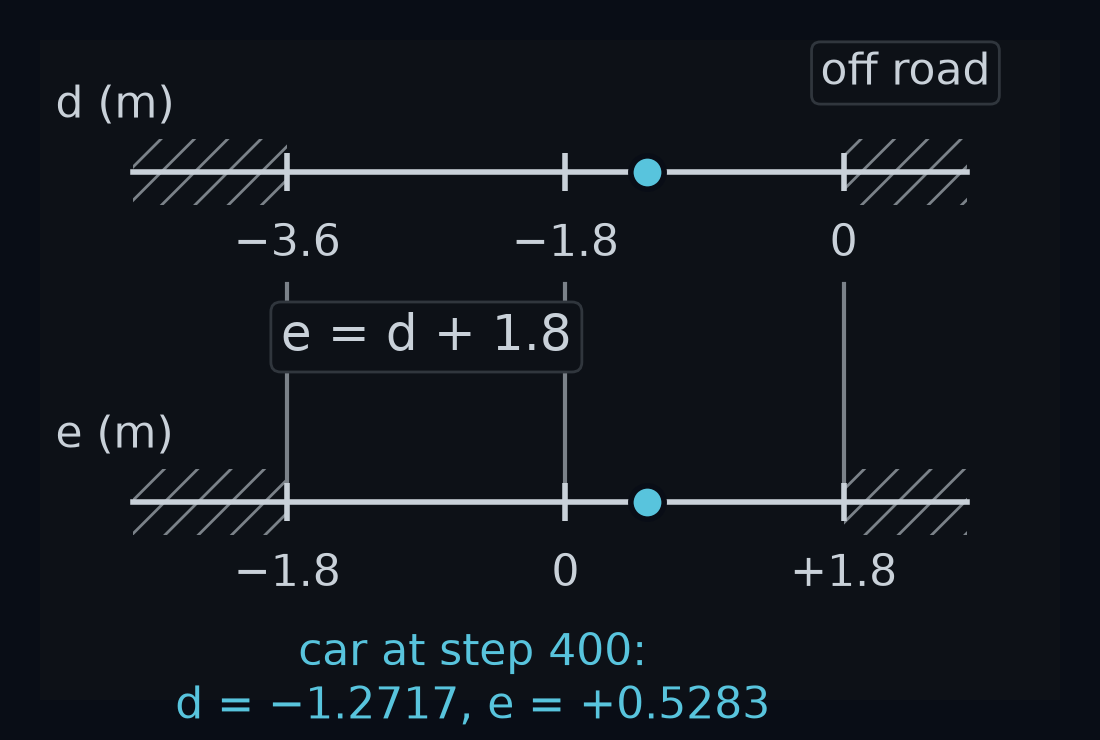
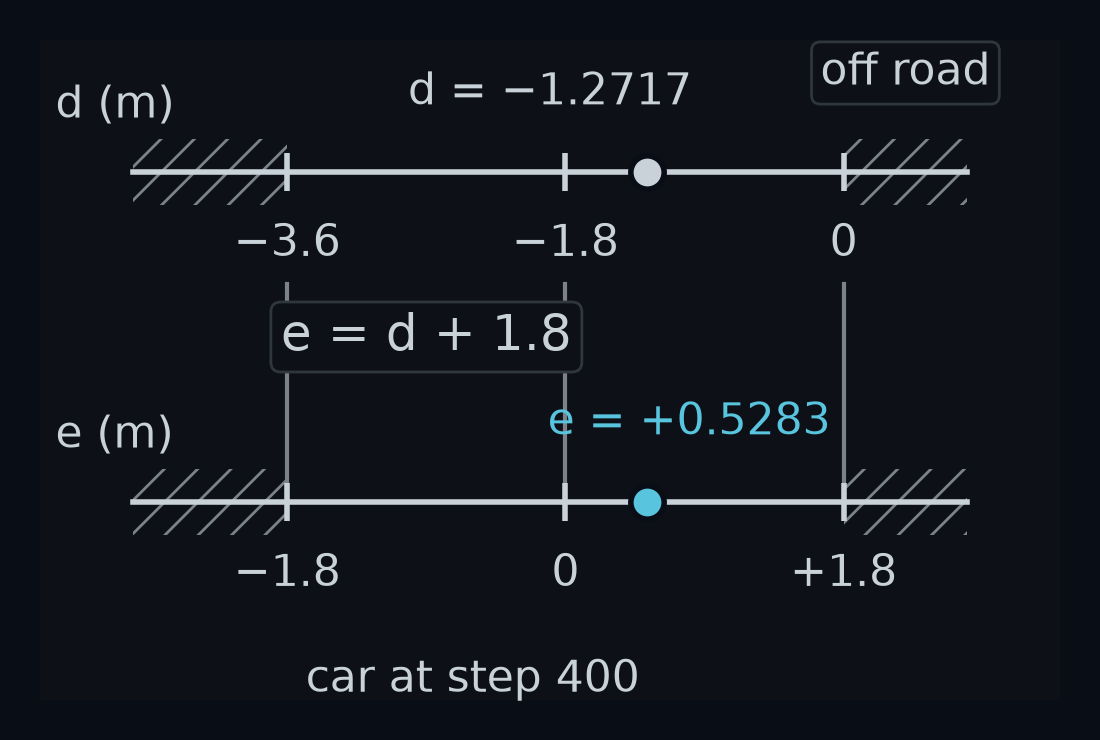
fix(1.1): ruling 10b - a symbol has one colour across the text and the figures
Gate G9 (test_figure_colours.py) reads the colour of every rendered label: a label
naming d, e, psi, delta or theta may not wear another symbol's quantity colour (d is
untinted, so any tint is wrong for it). It ran over every unit and found d in e's blue
in four 1.1.3 figures and "theta + delta (wheel)" in delta's colour in 1.1.1.

1.1.3 d_sideways, arc_length_l, step400_foot and e_from_d now draw d in neutral ink
(e_from_d keeps the e dot blue and splits its mixed label); 1.1.1 move_point_diagram
label is neutral. Alt texts updated; labs and bundle rebuilt.

diff --git a/tests/zero2fsd/test_figure_colours.py b/tests/zero2fsd/test_figure_colours.py
@@ -2,6 +2,7 @@
 """Gate G2: no figures.py (nor scripts/figstyle.py) holds a string colour literal; colours come from zero2fsd.palette.
 Gate G3: every quantity hue, and every shade of it, reads on the dark figure background (WCAG contrast >= 3:1).
 Gate G7: no figure plots data outside its axes (an axes that is a deliberate zoom carries the gid "zoom-inset").
+Gate G9 (ruling 10b): a symbol has one colour across the text and the figures; a figure label naming a symbol never wears another symbol's colour.
 
 What counts as a colour literal is derived from matplotlib itself, never from a list of names: the kwarg aliases of
 every Artist property whose name contains "color", any kwarg or dict key containing "color"/"colour", any "#hex"
@@ -14,6 +15,8 @@ from pathlib import Path
 
 import numpy as np
 import pytest
+from matplotlib.colors import to_hex
+from matplotlib.text import Text
 from matplotlib.figure import Figure
 from matplotlib.artist import Artist, ArtistInspector
 from matplotlib.axes._base import _process_plot_format
@@ -348,3 +351,60 @@ def test_render_pool_workers_exit_after_their_parent_is_killed(monkeypatch):
         for pid in workers:
             if alive(pid):
                 os.kill(pid, signal.SIGKILL)
+
+
+# --- G9: a symbol has one colour across the text and the figures (ruling 10b) ---
+
+SYMBOL_TINT = {"e": "e_off", "ψ": "psi", "δ": "delta", "θ": "theta", "d": None}  # None: the lectures leave the symbol untinted (neutral ink)
+SYMBOL = re.compile(r"(?<![\w.])(" + "|".join(SYMBOL_TINT) + r")(?![\w.])")  # a lone symbol; d₁ and "deg" are other words
+TINT_OWNER = {shade.upper(): name for name, hue in QUANTITY.items() for shade in shades(hue, 4)}
+
+
+def symbol_tint_violations(fig) -> list[str]:
+    """One message per text (a label, a tag, a legend entry) that names a symbol but is drawn in another symbol's quantity colour, or in any tint for an untinted symbol."""
+    problems = []
+    for text in fig.findobj(Text):
+        owner = TINT_OWNER.get(to_hex(text.get_color()).upper())
+        symbols = set(SYMBOL.findall(text.get_text()))
+        wrong = sorted(s for s in symbols if SYMBOL_TINT[s] != owner)
+        if owner and wrong:
+            problems.append(f"{text.get_text()!r} names {wrong} in the colour of {owner}")
+    return problems
+
+
+def _label_figure(text, colour):
+    fig = Figure()
+    fig.subplots().text(0.5, 0.5, text, color=colour)
+    return fig
+
+
+@pytest.mark.parametrize("text, colour", [
+    ("d = −1.8 m", QUANTITY["e_off"]),                                 # the motivating case: d drawn in e's blue
+    ("ψ = 0.2", QUANTITY["e_off"]),                                    # another symbol, another unit's colour
+    ("d = −1.27, e = +0.53", QUANTITY["e_off"]),                       # a mixed label may not be tinted at all
+    ("d", shades(QUANTITY["e_off"], 3)[2]),                            # a shade of e's blue is still e's blue
+    ("θ", QUANTITY["psi"]),
+])
+def test_a_label_naming_a_symbol_in_another_symbols_colour_is_flagged(text, colour):
+    assert len(symbol_tint_violations(_label_figure(text, colour))) == 1
+
+
+@pytest.mark.parametrize("text, colour", [
+    ("e = +0.5", QUANTITY["e_off"]), ("ψ", QUANTITY["psi"]), ("θ = 30°", QUANTITY["theta"]),
+    ("d = −1.8 m", CHROME["text"]),                                    # the untinted symbol in neutral ink
+    ("d₁ = 2.64 m", QUANTITY["perception"]),                           # a different quantity: the box's point distance
+    ("distance in m", QUANTITY["e_off"]), ("0.5 m left of the lane centre", QUANTITY["e_off"]),
+])
+def test_a_label_in_its_own_symbols_colour_or_neutral_ink_or_without_a_symbol_is_not_flagged(text, colour):
+    assert symbol_tint_violations(_label_figure(text, colour)) == []
+
+
+@pytest.mark.parametrize("source", SCANNED[:-1], ids=[p.parent.name for p in SCANNED[:-1]])
+def test_no_figure_label_names_a_symbol_in_another_symbols_colour(source, tmp_path, monkeypatch):
+    """Render every figure of the unit and read the colour of every label: d drawn in e's blue would ship otherwise."""
+    drawn = {}
+    save = Figure.savefig
+    monkeypatch.setattr(Figure, "savefig", lambda self, path, *args, **kwargs: (drawn.update({Path(path).name: symbol_tint_violations(self)}), save(self, path, *args, **kwargs))[1])
+    make_unit_figures(source.parent, tmp_path)
+    assert drawn, "no figure was drawn"
+    assert {name: found for name, found in drawn.items() if found} == {}

diff --git a/course/1.1.3-the-roads-own-coordinates/figures.py b/course/1.1.3-the-roads-own-coordinates/figures.py
@@ -23,7 +23,7 @@ from zero2fsd.sim.world import EGO_LANE_CENTER, WHITE_LINE_LATERAL
 
 TEXT, PANEL, BACKGROUND, BORDER = CHROME["text"], CHROME["panel"], CHROME["background"], CHROME["border"]
 DIM = shades(BORDER, 5)[3]  # a quieter grey from the same chrome, for helper lines
-BLUE, PINK, CORAL, PURPLE = QUANTITY["e_off"], QUANTITY["psi"], QUANTITY["perception"], QUANTITY["ego"]  # e and d, psi, the box's points, the ego frame
+BLUE, PINK, CORAL, PURPLE = QUANTITY["e_off"], QUANTITY["psi"], QUANTITY["perception"], QUANTITY["ego"]  # e (d is untinted: TEXT), psi, the box's points, the ego frame
 YELLOW, WHITE, ASPHALT = SCENE["yellow"], SCENE["white"], SCENE["road"]
 LABEL_BOX = {"boxstyle": "round,pad=0.2", "fc": PANEL, "ec": BORDER}  # text that sits on top of a picture
 CLEAR = (0, 0, 0, 0)
@@ -412,9 +412,9 @@ def d_sideways(path):
     _tag(ax, 2.4, -0.8, "d₁ = 2.64 m", color=CORAL)
     _tag(ax, 7.0, -0.8, "d₂ = 7.19 m", color=CORAL)
     _tag(ax, 3.6, -4.2, "forward", color=CORAL)
-    _brace(ax, (-0.9, 0.0), (-0.9, EGO_LANE_CENTER), BLUE)
-    _tag(ax, -2.35, -0.9, "d = −1.8 m", color=BLUE)
-    _tag(ax, -2.3, -2.7, "sideways", color=BLUE)
+    _brace(ax, (-0.9, 0.0), (-0.9, EGO_LANE_CENTER), TEXT)
+    _tag(ax, -2.35, -0.9, "d = −1.8 m")
+    _tag(ax, -2.3, -2.7, "sideways")
     ax.set(xlabel="east (m)", ylabel="north (m)")
     _ticks(ax, 5, 4)
     _save(fig, path)
@@ -430,9 +430,9 @@ def arc_length_l(path):
     _brace(ax, (10.8, 0.0), (10.8, 3.0), TEXT)
     _tag(ax, 12.4, 1.5, "t = 3 m")
     _tag(ax, 4.2, 6.5, "s = 10 + 3 = 13")
-    ax.plot(*zip((10.0, 3.0), p), color=BLUE, lw=3)
+    ax.plot(*zip((10.0, 3.0), p), color=TEXT, lw=3)
     _dot(ax, *p, TEXT, 9)
-    _tag(ax, 8.6, 4.2, "d = +2", color=BLUE)
+    _tag(ax, 8.6, 4.2, "d = +2")
     ax.set(xlabel="east (m)", ylabel="north (m)")
     _ticks(ax, 5, 5)
     _save(fig, path)
@@ -458,18 +458,18 @@ def step400_foot(path):
     _line(ax, pts[:, 0], pts[:, 1], color=YELLOW, lw=2, zorder=2)
     _line(ax, pts[:, 0], pts[:, 1], marker="o", ms=6, mfc=DIM, mec=DIM, ls="none", zorder=3)
     ax.plot(*zip(road._a[i], road._b[i]), color=TEXT, lw=5, zorder=4)
-    ax.plot(*zip(foot, car), color=BLUE, lw=3, zorder=4)
+    ax.plot(*zip(foot, car), color=TEXT, lw=3, zorder=4)
     _dot(ax, *car, TEXT, 11)
-    _dot(ax, *foot, BLUE, 10)
+    _dot(ax, *foot, TEXT, 10)
     _pointer(ax, "segment 1590\nof 7028", road._b[i], (mid[0] + 1.1, mid[1] + 1.45))
     _pointer(ax, "the foot,\nzoomed below", foot, (mid[0] - 1.0, mid[1] + 1.3))
-    _tag(ax, mid[0] + 1.1, mid[1] - 1.0, "d = −1.2717 m", color=BLUE)
+    _tag(ax, mid[0] + 1.1, mid[1] - 1.0, "d = −1.2717 m")
     _xy_axes(ax)
     zoom.plot([0.0, seg_len], [0.0, 0.0], color=TEXT, lw=5, zorder=3)  # segment 1590, drawn along its own direction
-    zoom.plot([t, t], [0.0, -0.03], color=BLUE, lw=3, zorder=4)  # towards the car, which is off the bottom
+    zoom.plot([t, t], [0.0, -0.03], color=TEXT, lw=3, zorder=4)  # towards the car, which is off the bottom
     _dot(zoom, 0.0, 0.0, DIM, 11)
     _dot(zoom, seg_len, 0.0, DIM, 11)
-    _dot(zoom, t, 0.0, BLUE, 10)
+    _dot(zoom, t, 0.0, TEXT, 10)
     _brace(zoom, (0.0, -0.011), (t, -0.011), TEXT)
     _pointer(zoom, "a: s₀ = 158.983 m", (0.0, 0.0), (0.05, 0.02))
     _tag(zoom, seg_len, 0.008, "b, the end")
@@ -525,9 +525,11 @@ def e_from_d(path):
             ax.add_patch(Rectangle((x0, y - 0.25), x1 - x0, 0.5, fc=CLEAR, ec=DIM, hatch="//", lw=0))
     _tag(ax, 0.4, y_d + 0.75, "off road", fontsize=FS, ha="center")
     _tag(ax, -2.7, (y_d + y_e) / 2, "e = d + 1.8", fontsize=18, ha="center")
-    for y in (y_d, y_e):
-        _dot(ax, -1.2717, y, BLUE, 12)
-    ax.text(-2.4, 0.15, "car at step 400:\nd = −1.2717, e = +0.5283", color=BLUE, ha="center", va="center")
+    for y, colour in ((y_d, TEXT), (y_e, BLUE)):  # d is untinted; e is blue
+        _dot(ax, -1.2717, y, colour, 12)
+    ax.text(-2.4, 0.15, "car at step 400", ha="center", va="center")
+    ax.text(-1.9, y_d + 0.6, "d = −1.2717", ha="center", va="center")
+    ax.text(-1.0, y_e + 0.6, "e = +0.5283", color=BLUE, ha="center", va="center")
     _save(fig, path)
 
 

diff --git a/course/1.1.1-positions-and-headings/figures.py b/course/1.1.1-positions-and-headings/figures.py
@@ -525,7 +525,7 @@ def _move_point_diagram(path):
     _arc(ax, o, 1.7, th + dl, th + dl + hf, THETA, lw=2.2)
     _text(ax, 3.05, 0.83, "θ (yaw)", THETA, ha="left")
     _text(ax, 5.35, -1.35, NORTH_EAST, TEXT, ha="right")
-    _text(ax, 2.25, 3.0 * math.sin(th + dl) + 0.1, "θ + δ (wheel)", DELTA, ha="left", va="bottom")
+    _text(ax, 2.25, 3.0 * math.sin(th + dl) + 0.1, "θ + δ (wheel)", TEXT, ha="left", va="bottom")
     _text(ax, -0.5, 3.0, "θ + δ + ½Δθ (chord)", TEXT, ha="left", va="bottom")
     _text(ax, 1.5, 0.9, "δ", DELTA, ha="left")
     _text(ax, 0.85, 1.75, "½Δθ", THETA, ha="right")

diff --git a/course/1.1.3-the-roads-own-coordinates/lecture.md b/course/1.1.3-the-roads-own-coordinates/lecture.md
@@ -99,7 +99,7 @@ A road has thousands of segments, and each one gives the point its own foot. The
 
 That signed distance from the nearest point of the centreline is the road's sideways coordinate. It is written $d$, read "dee": metres to the left of the centreline, negative to the right. Careful: in *Your first perception box*, $d_1$ and $d_2$ were distances **forward**, from the car to the two lane-centre points ahead of it. This $d$ is **sideways**. On `gentle`, $d = 0$ is the middle of the yellow line, your lane centre is $d = -1.8$ m, and the white line is $d = -3.6$ m.
 
-![The car at the start of gentle, seen from above, facing east along the first straight on its lane centre. Two coral dots on the lane centre ahead mark the perception box's two lane-centre points, with coral braces along the lane labelled d₁ = 2.64 m and d₂ = 7.19 m: distances forward. A blue brace across the road, from the yellow line to the car, is labelled d = −1.8 m: a distance sideways.](figures/d_sideways.png)
+![The car at the start of gentle, seen from above, facing east along the first straight on its lane centre. Two coral dots on the lane centre ahead mark the perception box's two lane-centre points, with coral braces along the lane labelled d₁ = 2.64 m and d₂ = 7.19 m: distances forward. A grey brace across the road, from the yellow line to the car, is labelled d = −1.8 m: a distance sideways.](figures/d_sideways.png)
 
 Outside the corner the two segments tie. The point (12, −2) is 2.828 m from their shared vertex, which is the foot on both. Both give the same foot, so both give the same $d$, −2.828 m. The last section comes back to ties.
 
@@ -109,7 +109,7 @@ On `gentle` there are 7028 segments. On the laptop that wrote this lesson, a Pyt
 
 The second coordinate says how far along the road the point is. Start at the first vertex of the centreline and walk along it, segment by segment, to the foot. The distance walked is the **arc length** to the foot, written $s$, read "ess". It has two parts: the lengths of all the segments before the nearest one, added up, and $t$, how far along the nearest one the foot is.
 
-![The L-shaped road again, with arc length marked along it in grey: s = 0 at (0, 0), s = 10 at the corner (10, 0) and s = 20 at the far end (10, 10). The point p at (8, 3) has its foot 3 m along the second segment, shown by a grey brace labelled t = 3 m, so its s is 10 + 3 = 13 m. A blue line from the foot to p is labelled d = +2.](figures/arc_length_l.png)
+![The L-shaped road again, with arc length marked along it in grey: s = 0 at (0, 0), s = 10 at the corner (10, 0) and s = 20 at the far end (10, 10). The point p at (8, 3) has its foot 3 m along the second segment, shown by a grey brace labelled t = 3 m, so its s is 10 + 3 = 13 m. A grey line from the foot to p is labelled d = +2.](figures/arc_length_l.png)
 
 The total length of the segments before segment $i$ is written $s_{0,i}$, read "s nought i". `gentle`'s first straight is 1000 segments of exactly 0.1 m, so segment 1000, the first one of the bend, starts at $s_{0} = 100.0000$ m. NumPy's `np.cumsum` builds every running total in one call. Then
 
@@ -119,7 +119,7 @@ In the L, the first segment is 10 m long, so $\mathbf{p} = (8, 3)$, 3 m along th
 
 **Guess first:** at step 400, 20.00 s in, the car has driven 8 m/s × 20.00 s = 160 m. Is its $s$ more than 160 m, or less?
 
-![Two stacked panels at step 400, 20.00 s in. Top: a few metres of gentle's first bend around the car, with the centreline's vertices as grey dots along the yellow line; a blue line at right angles from the foot to the car is labelled d = −1.2717 m, so the car is 1.27 m to the right of the yellow line, and the foot is marked as zoomed below. Bottom: a zoom on the nearest segment, number 1590 of 7028, 0.1 m long, from a, 158.983 m along the road, to b. The foot sits 0.0279 m along it, shown by a grey brace, so s is 159.011 m.](figures/step400_foot.png)
+![Two stacked panels at step 400, 20.00 s in. Top: a few metres of gentle's first bend around the car, with the centreline's vertices as grey dots along the yellow line; a grey line at right angles from the foot to the car is labelled d = −1.2717 m, so the car is 1.27 m to the right of the yellow line, and the foot is marked as zoomed below. Bottom: a zoom on the nearest segment, number 1590 of 7028, 0.1 m long, from a, 158.983 m along the road, to b. The foot sits 0.0279 m along it, shown by a grey brace, so s is 159.011 m.](figures/step400_foot.png)
 
 **Answer:** less. The nearest segment is number 1590, which starts at $s_{0} = 158.983$ m, and the foot is $t = 0.0279$ m along it, so $s = 159.011$ m while the car has driven 160.000 m. $s$ is measured along the yellow line. On a left bend your lane is on the outside of the turn, on a bigger circle: at step 400 the car is 81.2717 m from the bend's centre, (100, 80), while the yellow line is 80 m from it. Over the whole lap the car drives 710.80 m while $s$ runs from 0 to 702.65 m. The lane centre's own loop, two 100 m straights and a full circle of radius 81.8 m, is $200 + 2\pi \times 81.8 = 713.96$ m long, and the car cuts slightly inside it on the bends.
 
@@ -145,7 +145,7 @@ At step 400, $d = -1.2717$ m, so $e = +0.5283$ m: the car is 0.53 m left of its 
 
 **Guess first:** the car is off the road once $|e| > 1.8$ m. Which values of $d$ is that?
 
-![Two number lines, one above the other, for the same sideways positions. The top one is d, metres from the yellow line; the bottom one is e, metres from the lane centre, shifted by 1.8. The white line sits at d = −3.6, e = −1.8; the lane centre at d = −1.8, e = 0; the yellow line at d = 0, e = +1.8. The car at step 400 is a blue dot at d = −1.2717 and e = +0.5283. Grey hatching marks off-road beyond both lines.](figures/e_from_d.png)
+![Two number lines, one above the other, for the same sideways positions. The top one is d, metres from the yellow line; the bottom one is e, metres from the lane centre, shifted by 1.8. The white line sits at d = −3.6, e = −1.8; the lane centre at d = −1.8, e = 0; the yellow line at d = 0, e = +1.8. The car at step 400 is a grey dot at d = −1.2717 on the top line and a blue dot at e = +0.5283 on the bottom one. Grey hatching marks off-road beyond both lines.](figures/e_from_d.png)
 
 **Answer:** $d > 0$, over the yellow line, or $d < -3.6$, over the white line. Every $d$ maps to its $e$ by the same shift of 1.8 m.
 
